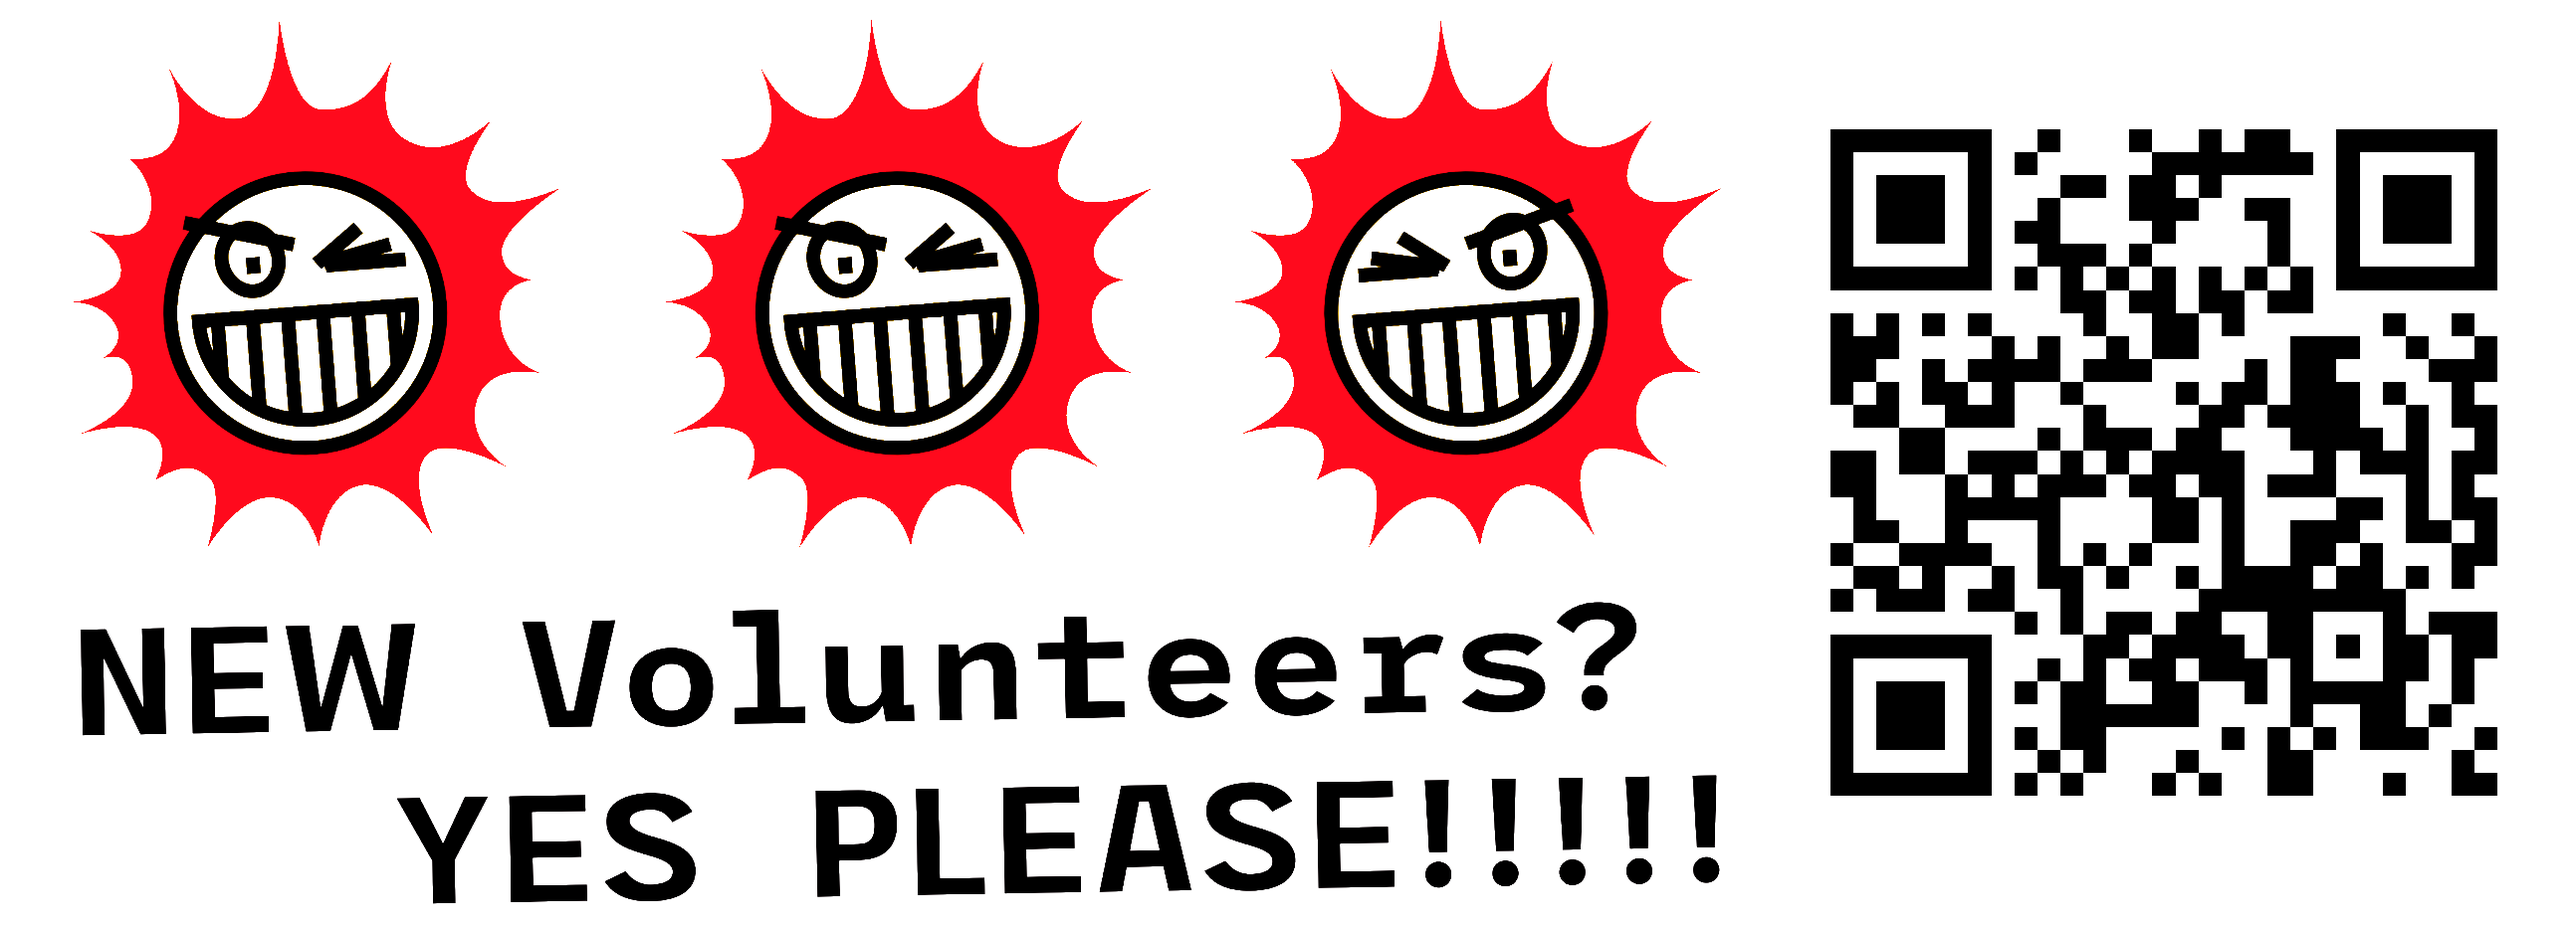
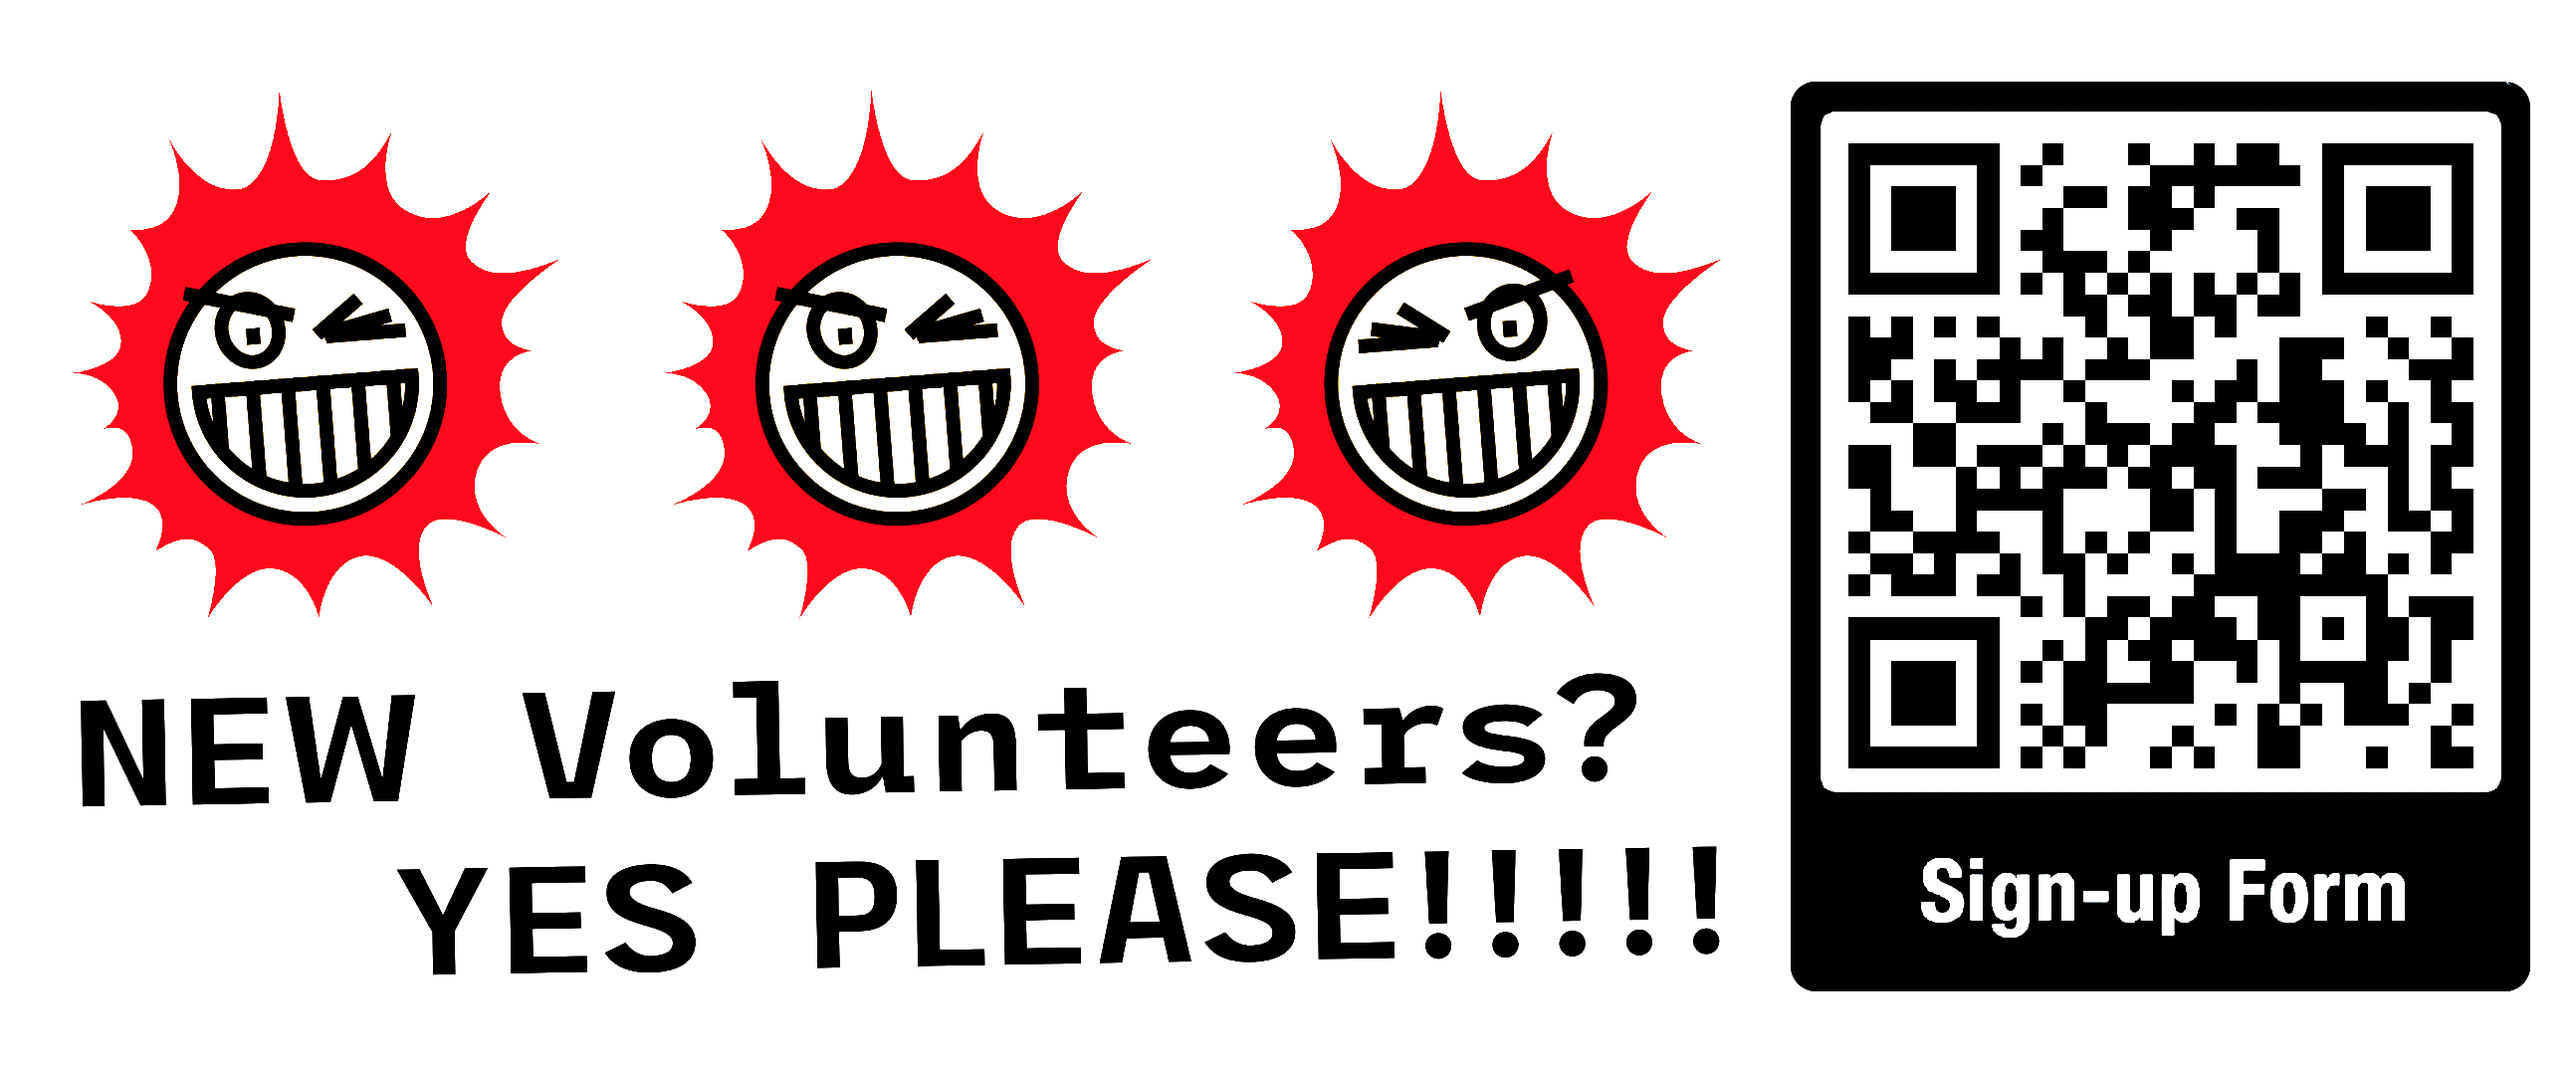
Add recurrent events section and volunteers one

diff --git a/src/static/style.css b/src/static/style.css
@@ -2,6 +2,8 @@ body, div, dl, dt, dd, h1, h2, h3, h4, h5, h6, p, pre, code, blockquote {
 	margin:0;
 	padding:0;
 	border-width:0;
+	-webkit-print-color-adjust:exact !important;
+    print-color-adjust:exact !important;
 }
 
 @font-face{
